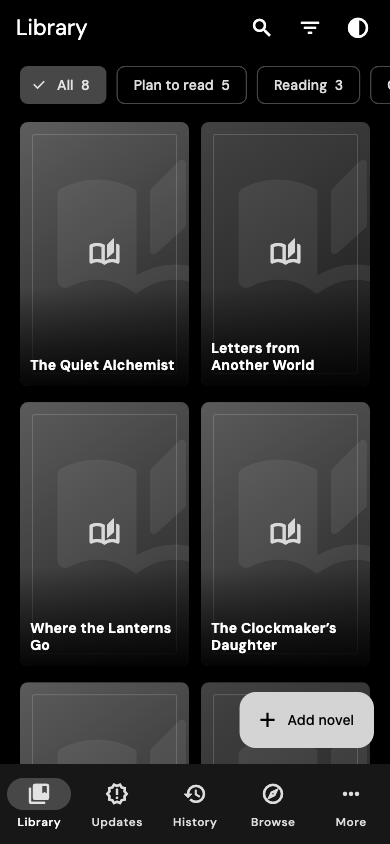
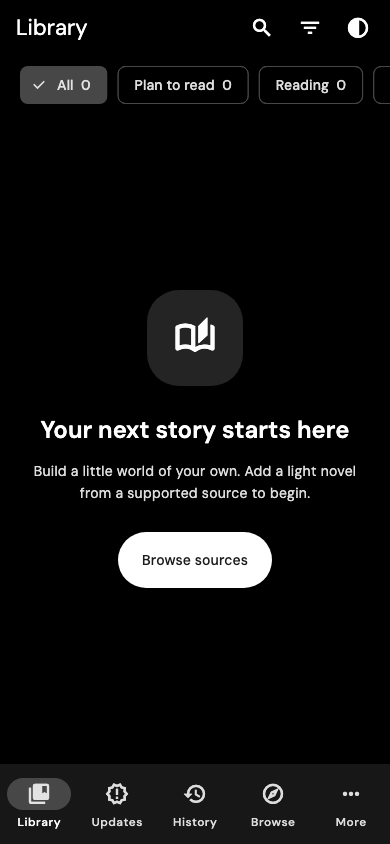
Rename UI to Moonleaf and use empty-library previews (#6)
* Rename UI to Moonleaf and keep libraries and previews empty

* Point download links to the renamed Moonleaf repository

diff --git a/flutter_app/tool/preview_test.dart b/flutter_app/tool/preview_test.dart
@@ -1,35 +1,10 @@
-// Review-only fixtures; the installed app starts with an empty library.
+// Preview the actual empty first-run library, with no seeded novel data.
 // flutter test tool/preview_test.dart --update-goldens
-import 'package:flutter/material.dart';
 import 'package:flutter/services.dart';
 import 'package:flutter_test/flutter_test.dart';
 import 'package:novel_to_epub/library/library_store.dart';
 import 'package:novel_to_epub/main.dart';
 
-LibraryStore previewStore(AppAppearance appearance) => LibraryStore(
-  appearance: appearance,
-  novels: [
-    for (final (index, title) in [
-      'The Paper Kingdom',
-      'A Sky Full of Letters',
-      'The Last Winter Mage',
-      'A Library Beyond the Stars',
-      'The Clockmaker’s Daughter',
-      'Where the Lanterns Go',
-      'Letters from Another World',
-      'The Quiet Alchemist',
-    ].indexed)
-      LibraryNovel(
-        url: 'https://roliascan.com/manga/preview-$index',
-        title: title,
-        author: 'Sample Author',
-        firstChapter: 'https://roliascan.com/read/preview/ch1/',
-        addedAt: DateTime(2026, 1, index + 1),
-        shelf: index % 3 == 0 ? 'Reading' : 'Plan to read',
-        description: 'In a city that has forgotten how to dream, one young librarian discovers that every unwritten story is a doorway. Beyond the shelves, a world of impossible wonders is waiting. These are sample details for reviewing the interface.',
-      ),
-  ],
-);
 void main() {
   setUpAll(() async {
     final icons = FontLoader('MaterialIcons')
@@ -51,18 +26,18 @@ void main() {
     'phone-light': (const Size(390, 844), AppAppearance.light),
     'ereader-light': (const Size(390, 844), AppAppearance.ereaderLight),
     'ereader-dark': (const Size(390, 844), AppAppearance.ereaderDark),
-    'detail': (const Size(390, 844), AppAppearance.dark),
+    'more': (const Size(390, 844), AppAppearance.dark),
   }.entries) {
     testWidgets('${entry.key} preview', (tester) async {
       tester.view.physicalSize = entry.value.$1;
       tester.view.devicePixelRatio = 1;
       addTearDown(tester.view.resetPhysicalSize);
       addTearDown(tester.view.resetDevicePixelRatio);
-      final store = previewStore(entry.value.$2);
+      final store = LibraryStore(appearance: entry.value.$2);
       await tester.pumpWidget(NovelApp(store: store));
       await tester.pumpAndSettle();
-      if (entry.key == 'detail') {
-        await tester.tap(find.byKey(ValueKey(store.novels.last.url)));
+      if (entry.key == 'more') {
+        await tester.tap(find.text('More').last);
         await tester.pumpAndSettle();
       }
       await expectLater(

diff --git a/flutter_app/lib/library/library_screen.dart b/flutter_app/lib/library/library_screen.dart
@@ -311,7 +311,7 @@ class _LibraryScreenState extends State<LibraryScreen> {
                   leading: Padding(
                     padding: const EdgeInsets.only(top: 16, bottom: 28),
                     child: Tooltip(
-                      message: 'Chapter & Verse',
+                      message: 'Moonleaf',
                       child: Icon(
                         Icons.auto_stories_rounded,
                         size: 30,
@@ -603,7 +603,7 @@ class _LibraryScreenState extends State<LibraryScreen> {
           ),
           const SizedBox(height: 16),
           Text(
-            'Chapter & Verse',
+            'Moonleaf',
             textAlign: TextAlign.center,
             style: Theme.of(context).textTheme.headlineSmall
                 ?.copyWith(fontFamily: 'Fraunces'),
@@ -662,7 +662,7 @@ class _LibraryScreenState extends State<LibraryScreen> {
             title: const Text('Open-source licenses'),
             onTap: () => showLicensePage(
               context: context,
-              applicationName: 'Chapter & Verse',
+              applicationName: 'Moonleaf',
             ),
           ),
         ],

diff --git a/flutter_app/test/library_test.dart b/flutter_app/test/library_test.dart
@@ -23,6 +23,20 @@ LibraryNovel fixture(
 );
 
 void main() {
+  testWidgets('fresh install has an empty library and Moonleaf branding', (
+    tester,
+  ) async {
+    SharedPreferences.setMockInitialValues({});
+    await tester.pumpWidget(const NovelApp());
+    await tester.pumpAndSettle();
+    expect((await LibraryStore.load()).novels, isEmpty);
+    expect(find.text('Your next story starts here'), findsOneWidget);
+    expect(find.byKey(const Key('library-grid')), findsNothing);
+    await tester.tap(find.text('More').last);
+    await tester.pumpAndSettle();
+    expect(find.text('Moonleaf'), findsOneWidget);
+  });
+
   test(
     'library, shelves, history and e-reader preference survive reload',
     () async {

diff --git a/flutter_app/lib/widgets/book_art.dart b/flutter_app/lib/widgets/book_art.dart
@@ -5,7 +5,7 @@ class BookArt extends StatelessWidget {
   const BookArt({
     super.key,
     this.title = 'Your next\ngreat read',
-    this.author = 'CHAPTER & VERSE',
+    this.author = 'MOONLEAF',
   });
   final String title;
   final String author;
@@ -73,7 +73,7 @@ class BookArt extends StatelessWidget {
                         width: constraints.maxWidth,
                         child: Text(
                           author.isEmpty
-                              ? 'CHAPTER & VERSE'
+                              ? 'MOONLEAF'
                               : author.toUpperCase(),
                           maxLines: 2,
                           overflow: TextOverflow.ellipsis,

diff --git a/flutter_app/tool/smoke_site.dart b/flutter_app/tool/smoke_site.dart
@@ -8,11 +8,12 @@ import 'package:novel_to_epub/data/site_extractors.dart';
 import 'package:novel_to_epub/data/epub_writer.dart';
 
 Future<void> main(List<String> args) async {
-  final url = Uri.parse(
-    args.isEmpty
-        ? 'https://roliascan.com/manga/the-regressor-and-the-blind-saint-novel/'
-        : args.single,
-  );
+  if (args.length != 1) {
+    stderr.writeln('Usage: dart run tool/smoke_site.dart <novel-url>');
+    exitCode = 64;
+    return;
+  }
+  final url = Uri.parse(args.single);
   final client = http.Client();
   try {
     Future<String> fetch(Uri uri) async {

diff --git a/flutter_app/web/index.html b/flutter_app/web/index.html
@@ -23,13 +23,13 @@
   <!-- iOS meta tags & icons -->
   <meta name="mobile-web-app-capable" content="yes">
   <meta name="apple-mobile-web-app-status-bar-style" content="black">
-  <meta name="apple-mobile-web-app-title" content="Chapter &amp; Verse">
+  <meta name="apple-mobile-web-app-title" content="Moonleaf">
   <link rel="apple-touch-icon" href="icons/Icon-192.png">
 
   <!-- Favicon -->
   <link rel="icon" type="image/png" href="favicon.png"/>
 
-  <title>Chapter &amp; Verse</title>
+  <title>Moonleaf</title>
   <link rel="manifest" href="manifest.json">
 </head>
 <body>

diff --git a/flutter_app/lib/main.dart b/flutter_app/lib/main.dart
@@ -91,7 +91,7 @@ class _NovelAppState extends State<NovelApp> {
             mode == AppAppearance.ereaderLight ||
             mode == AppAppearance.ereaderDark;
         return MaterialApp(
-          title: 'Chapter & Verse',
+          title: 'Moonleaf',
           debugShowCheckedModeBanner: false,
           theme: novelTheme(Brightness.light, ereader: ereader),
           darkTheme: novelTheme(Brightness.dark, ereader: ereader),

diff --git a/flutter_app/lib/library/library_store.dart b/flutter_app/lib/library/library_store.dart
@@ -79,6 +79,7 @@ class LibraryStore extends ChangeNotifier {
     this.grid = true,
     this.sortByTitle = false,
   }) : _novels = List.of(novels);
+  // Keep the existing private storage key so renaming the app preserves user data.
   static const storageKey = 'chapter_verse_library_v1';
   List<LibraryNovel> _novels;
   List<LibraryNovel> get novels => List.unmodifiable(_novels);

diff --git a/flutter_app/linux/runner/my_application.cc b/flutter_app/linux/runner/my_application.cc
@@ -45,11 +45,11 @@ static void my_application_activate(GApplication* application) {
   if (use_header_bar) {
     GtkHeaderBar* header_bar = GTK_HEADER_BAR(gtk_header_bar_new());
     gtk_widget_show(GTK_WIDGET(header_bar));
-    gtk_header_bar_set_title(header_bar, "Chapter & Verse");
+    gtk_header_bar_set_title(header_bar, "Moonleaf");
     gtk_header_bar_set_show_close_button(header_bar, TRUE);
     gtk_window_set_titlebar(window, GTK_WIDGET(header_bar));
   } else {
-    gtk_window_set_title(window, "Chapter & Verse");
+    gtk_window_set_title(window, "Moonleaf");
   }
 
   gtk_window_set_default_size(window, 1280, 720);

diff --git a/flutter_app/windows/runner/main.cpp b/flutter_app/windows/runner/main.cpp
@@ -27,7 +27,7 @@ int APIENTRY wWinMain(_In_ HINSTANCE instance, _In_opt_ HINSTANCE prev,
   FlutterWindow window(project);
   Win32Window::Point origin(10, 10);
   Win32Window::Size size(1280, 720);
-  if (!window.Create(L"Chapter & Verse", origin, size)) {
+  if (!window.Create(L"Moonleaf", origin, size)) {
     return EXIT_FAILURE;
   }
   window.SetQuitOnClose(true);

diff --git a/README.md b/README.md
@@ -1,19 +1,18 @@
-# Light Novel Extractor
+# Moonleaf
 
 Convert supported web novels to EPUB while preserving chapter formatting.
 Currently supports Royal Road and RoliaScan text novels.
 
-For RoliaScan, paste the novel landing page, for example:
-`https://roliascan.com/manga/the-regressor-and-the-blind-saint-novel/`.
+For RoliaScan, paste the landing-page URL of a novel you choose.
 The extractor reads the first-chapter button and follows explicit next links;
 the dynamically loaded chapter list is not needed. Image-only manga and pages
 without accessible novel text raise an error.
 
 ## Download for Android
 
-[![Download Android APK](https://img.shields.io/badge/Download-Android_APK-193E36?logo=android&logoColor=white)](https://github.com/noddle-Cake/webnovel-to-epub/releases/latest/download/chapter-and-verse.apk)
+[![Download Android APK](https://img.shields.io/badge/Download-Android_APK-193E36?logo=android&logoColor=white)](https://github.com/noddle-Cake/Moonleaf/releases/latest/download/chapter-and-verse.apk)
 
-**[Download the latest APK](https://github.com/noddle-Cake/webnovel-to-epub/releases/latest/download/chapter-and-verse.apk)** · [All releases and checksums](https://github.com/noddle-Cake/webnovel-to-epub/releases)
+**[Download the latest APK](https://github.com/noddle-Cake/Moonleaf/releases/latest/download/chapter-and-verse.apk)** · [All releases and checksums](https://github.com/noddle-Cake/Moonleaf/releases)
 
 Install the APK on your Android phone and open it. **No server or Python
 installation is needed.** The app fetches novels and creates EPUBs on your

diff --git a/flutter_app/DESIGN.md b/flutter_app/DESIGN.md
@@ -17,3 +17,7 @@ Appearance supports system, light, dark, e-reader light, and e-reader dark.
 E-reader appearances use grayscale rendering, black/white surfaces, increased
 contrast, and reduced animation. These are visual modes, not device-specific
 e-ink refresh controls. All modes will be reusable by the future reader.
+
+First-run libraries and published previews are empty. Do not seed books, use
+personal reading selections in examples, or capture an existing user's library
+for screenshots. Live smoke checks require an explicitly supplied URL.
